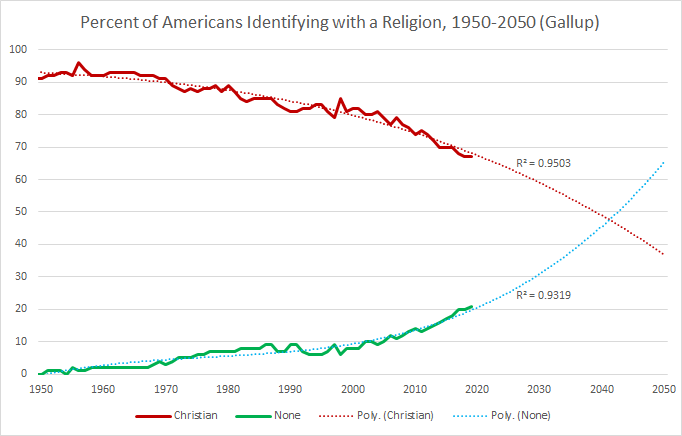
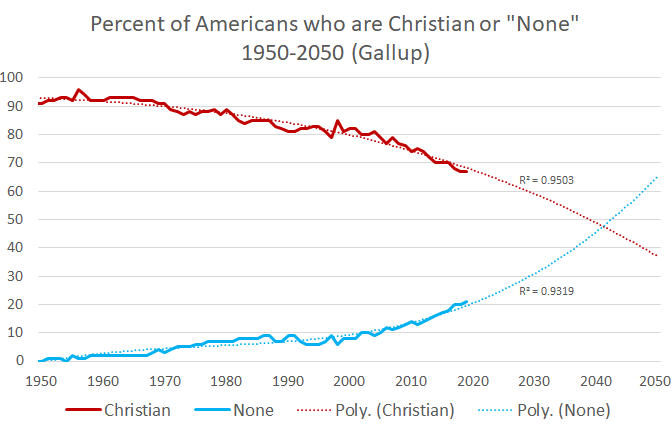
Fixed color in graph, hopefully fixed bug of changing note and section numbers

diff --git a/src/pages/con-leibniz.js b/src/pages/con-leibniz.js
@@ -12,6 +12,10 @@ var sections = 0;
 const ConLeibniz = () => (
   <Layout>
     <SEO title="Gottfried Leibniz's Contingency Argument" />
+    <script>
+        {notes = 0}
+        {sections = 0}
+    </script>    
     <p>Gottfried Leibniz's <Hyperlink to="https://rationalchristian.wordpress.com/2018/05/20/if-anything-exists-god-exists/">contingency argument is based on his so-called</Hyperlink> "<Hyperlink to="https://en.wikipedia.org/wiki/Principle_of_sufficient_reason">principle of sufficient reason</Hyperlink>" (PSR), which states that everything must have an explanation of its existence. According to the PSR, a thing's existence can be explained either by itself or by another thing. If it exists because of another thing, then its existence is <em>contingent</em> on that other thing, so it is said to <em>exist contingently</em>. Conversely, if its existence is self-explanatory, then it is said to <em>exist necessarily</em>. If it has no explanation at all — a possibility that the PSR denies — then its existence is a <em>brute fact.</em>
     <br /><br />
     Given the PSR, every contingent thing is explained by an ontologically prior thing. That prior thing exists either contingently, necessarily, or as a brute fact. This chain of things contingent on prior things is said to leave three respective possibilities. First, the chain extends backwards infinitely, so everything is contingent on a prior thing but there is no first thing. Second, something exists necessarily, so everything is indirectly contingent on it and it therefore explains everything. Finally, something exists as a brute fact. The last case is only a sufficient explanation if all contingent things are indirectly contingent on the brute fact(s). Anyone using the contingency argument rejects the first and third of those possibilities outright, concluding that the second must be correct.
@@ -112,6 +116,6 @@ const ConLeibniz = () => (
         I hesitate to endorse this objection for several other reasons. I would rather do away with metaphysical modality entirely, refusing to call anything metaphysically necessary or possible except to expose flaws in others' arguments. And even if one can use the language of metaphysical necessity, it may be an illicit move to say that existence exists necessarily, because perhaps the set of all existing things could simply be empty. But while this argument has its flaws, it would refute the PSR if one could show that existence exists necessarily and therefore requires no explanation.
     </Section>
   </Layout>
-)
+);
 
 export default ConLeibniz;

diff --git a/src/pages/trinity-modern.js b/src/pages/trinity-modern.js
@@ -11,6 +11,10 @@ var sections = 0;
 const TrinityModern = () => (
   <Layout>
     <SEO title="Modern Scientific Analogies for the Trinity" />
+    <script>
+        {notes = 0}
+        {sections = 0}
+    </script>    
     Four Christians to whom I brought my argument that Trinitarian doctrine is contradictory and therefore should not be believed all gave the same kind of reply: analogies with scientific theories. They claimed that the most successful physical theories contain apparent contradictions, but still should be believed. They gave three examples of apparent contradictions in physics: The simultaneous truth of quantum mechanics (QM) and the theory of relativity, <Hyperlink to="https://en.wikipedia.org/wiki/Resonance_(chemistry)">resonance structures</Hyperlink> as an example of quantum superposition, and wave-particle duality.
     <Note num={++notes}>
         Here are the specific objections that each of those Christians gave me, although I have kept them anonymous because I am quoting from private correspondence:
@@ -51,6 +55,6 @@ const TrinityModern = () => (
         <br /><br />
         Finally, consider wave-particle duality. This will also depend on one's interpretation of quantum mechanics. For example, the <Hyperlink to="https://en.wikipedia.org/wiki/Wave%E2%80%93particle_duality#2._Wave-only_view">many-worlds interpretation would probably claim that light is always only a wave</Hyperlink>, and <Hyperlink to="https://en.wikipedia.org/wiki/Wave%E2%80%93particle_duality#1._Both-particle-and-wave_view">Bohmian mechanics would claim that light has wave-like and particle-like properties</Hyperlink>. As usual, there are plenty of interpretations that resolve the apparent contradictions — and the only reason the competing interpretations are still around is a lack of empirical predictions to test which one is correct. Since the apparent contradictions can be resolved, the only question is how to resolve them rightly. Also, the aforementioned Christians claimed that one can know <em>that</em> God is even if one cannot know <em>what</em> God is, and one of them supported this by making an analogy with light. But the analogy with light backfires. One can know <em>that</em> light is only because light is observable, unlike God.
     </Section>
-</Layout>)
+</Layout>);
 
 export default TrinityModern;

diff --git a/src/pages/moral.js b/src/pages/moral.js
@@ -12,6 +12,10 @@ var sections = 0;
 const MoralArg = () => (
   <Layout>
     <SEO title="William Lane Craig's Moral Argument" />
+    <script>
+        {notes = 0}
+        {sections = 0}
+    </script>    
     In his debate with Lawrence Krauss, William Lane Craig phrased <Hyperlink to="https://www.reasonablefaith.org/media/debates/the-craig-krauss-debate-at-north-carolina-state-university#presentation-2">his moral argument for God's existence</Hyperlink> as follows:
     <br /><br /><blockquote>
         "On a naturalistic view moral values are just the byproduct of biological evolution and social conditioning … on the atheistic view there doesn’t seem to be anything about this that makes this morality objectively binding and true. But the problem is that objective moral values and duties plausibly do exist … There’s no more reason to deny the objective reality of moral values than the objective reality of the physical world … But in that case, the probability of God’s existence is 1.0! We can formulate this reasoning as follows: 1. If God did not exist, objective moral values and duties would not exist. 2. Objective moral values and duties do exist. From which it follows logically and inescapably that 3. Therefore, God exists."
@@ -53,4 +57,5 @@ const MoralArg = () => (
 		Notice that Dr. Craig implicitly recognizes that the objectivity of morality is based on essentialism instead of theism. He is able to successfully argue that God is objectively good only by presupposing that God has a universal essence, and not by appealing to some kind of distinction between theism and atheism. By admitting that actions are not good solely because God commands them, Craig also recognizes the possibility that Christianity is true and morality is subjective. If God exists but does not have the essential property of being good, as a Christian anti-essentialist must believe, then God exists but goodness is still subjective.
     </Section>
   </Layout>);
+  
 export default MoralArg;

diff --git a/src/pages/cos-schroeder.js b/src/pages/cos-schroeder.js
@@ -14,6 +14,10 @@ var sections = 0;
 const CosSchoeder = () => (
   <Layout>
     <SEO title="Gerald Schroeder's Cosmological Argument" />
+    <script>
+        {notes = 0}
+        {sections = 0}
+    </script>    
 		<p>A physicist named Gerald Schroeder apparently believed that he could provide <Hyperlink to="http://youtube.com/watch?v=eQVm8RokoBA">"scientific proof" that God exists</Hyperlink> — despite that science can never "prove" anything with certainty like mathematics or logic can, and can merely "show" or "demonstrate" — in five minutes, according to his Youtube video on the subject. Unsurprisingly, his five-minute "proof" is full of holes. One cannot infer that God exists merely because the laws of nature exist, contrary to what Schroeder claimed.</p>
     <Section num={++sections} summary="Since time is part of the universe, and nothing can predate time, the laws of nature do not predate the universe as Schroeder claimed.">
       Schroeder claimed (at 2:25) that "the Bible got it right" because "There was a beginning to the universe." In this respect he is correct: the Bible did get at least one thing right in a literal reading of it. However, he neglected to mention that the Bible incorrectly described almost every other detail about the beginning of the universe: namely, how long ago it happened, how long it took for the various kinds of life to form, through what processes the various kinds of life formed, whether or not there was a "firmament" above the Earth, whether stars existed before the Earth did, et cetera. It is commonly accepted based on the overwhelming majority of evidence that a literal reading of the Bible gives inaccurate answers to these questions.

diff --git a/src/pages/cos-leibniz.js b/src/pages/cos-leibniz.js
@@ -12,6 +12,10 @@ var sections = 0;
 const CosLeibniz = () => (
   <Layout>
     <SEO title="Gottfried Leibniz's Cosmological Argument" />
+    <script>
+        {notes = 0}
+        {sections = 0}
+    </script>    
     <p>According to Gottfried Leibniz, "<Hyperlink to="https://reasonabletheology.org/why-is-there-something-rather-than-nothing-leibniz-contingency-argument/">the first question that should rightly be asked is 'Why is there something instead of nothing?'</Hyperlink>" It is a simple question to which Leibniz considered God the only possible answer. But asking why there is something rather than nothing is insufficient to show that God exists.</p>
     <Section num={++sections} summary="Why is there something rather than nothing? Well, why not? There is no reason to expect nothing rather than something, and maybe the universe has no explanation. Plus, if probability is based on observations, 1 out of 1 observed universes exists.">
         A much simpler answer to Leibniz's question is given without invoking God in the first three words of the Stanford Encyclopedia of Philosophy's discussion of Leibniz's question: "<Hyperlink to="https://plato.stanford.edu/entries/nothingness/#WhyTheSomRatThaNot">Well, why not?</Hyperlink>"
@@ -80,6 +84,6 @@ const CosLeibniz = () => (
         However, I am unwilling to endorse that argument because it requires accepting "metaphysical possibility" as a legitimate category, separate from logical or physical possibility. As explained earlier, I do not. 
     </Section>			
   </Layout>
-)
+);
 
 export default CosLeibniz;

diff --git a/src/pages/demographics-usa-explained.js b/src/pages/demographics-usa-explained.js
@@ -17,6 +17,10 @@ var sections = 0;
 const ExplainingDemographicsUSA = () => (
   <Layout>
     <SEO title="Explaining American Religious Demographic Trends" />
+    <script>
+        {notes = 0}
+        {sections = 0}
+    </script>    
     The rise of American nonreligion is typically explained in the literature by one of two overarching theories: the <Hyperlink to="http://hdl.handle.net/11299/206620">"backlash theory" and the "drift theory."</Hyperlink><Note num={++notes}>Evan Stewart (2019), "<Hyperlink to="http://hdl.handle.net/11299/206620">No Church in the Wild: The Politics of American Nonreligion</Hyperlink>," pp. 2-3 (<Hyperlink to="https://conservancy.umn.edu/bitstream/handle/11299/206620/Stewart_umn_0130E_20445.pdf?sequence=1">PDF</Hyperlink>).
     </Note> Each of these partly explains the rise in American nonreligion, but another often-overlooked factor explains just as much: digital-age access to information. 
     <Section num={++sections} summary="The decline of American religion is caused largely by better access to information. The decline accelerated in the past few decades because Americans can access vastly more information now through the Internet.">
@@ -138,6 +142,6 @@ const ExplainingDemographicsUSA = () => (
         </blockquote>
         The less that Americans are taught to follow their religion as children, before the development of their critical thinking skills, the fewer of them ever come to believe it.
     </Section>
-</Layout>)
+</Layout>);
 
 export default ExplainingDemographicsUSA;

diff --git a/src/pages/possible-metaphys.js b/src/pages/possible-metaphys.js
@@ -14,6 +14,10 @@ var sections = 0;
 const MetaphysicalModality = () => (
   <Layout>
     <SEO title="Metaphysical Modality" />
+    <script>
+        {notes = 0}
+        {sections = 0}
+    </script>    
     In philosophy, "modal claims" are "<Hyperlink to="https://plato.stanford.edu/entries/modality-epistemology/">claims about what is necessary, possible, contingent, essential, and accidental."</Hyperlink><Note num={++notes}>By "modality" here I mean "<Hyperlink to="https://en.wikipedia.org/wiki/Alethic_modality">alethic modality</Hyperlink>," also known as "<Hyperlink to="https://en.wikipedia.org/wiki/Subjunctive_possibility">subjunctive possibility</Hyperlink>." There are other kinds of modality, including the <Hyperlink to="https://en.wikipedia.org/wiki/Subjunctive_possibility#Deontic_possibility">deontic ethical modality</Hyperlink> of obligatory (ethically necessary) versus permissible (ethically possible) actions. For this discussion, I am ignoring these other modalities.</Note> Philosophers often define three kinds<Note num={++notes}>For the moment I am ignoring a fourth kind, <Hyperlink to="https://en.wikipedia.org/wiki/Subjunctive_possibility#Types_of_subjunctive_possibility">"temporal" or "historical" modality</Hyperlink>.</Note> of modality: logical, metaphysical, and physical. "On the standard model" of modality, "the following nesting relation holds:" 
     <br />
     <img src = "https://plato.stanford.edu/entries/modality-epistemology/fig1.png" style={{objectFit: "scale-down"}} />

diff --git a/src/pages/ont-anselm.js b/src/pages/ont-anselm.js
@@ -13,6 +13,10 @@ var sections = 0;
 const AnselmOnt = () => (
   <Layout>
     <SEO title="Anselm's Ontological Argument" />
+    <script>
+        {notes = 0}
+        {sections = 0}
+    </script>    
     <p>Anselm's ontological argument (AOA) for God's existence was first described in Anselm's <em><Hyperlink to="http://jasper-hopkins.info/proslogion.pdf">Proslogion</Hyperlink></em>:
     <br /><br /><blockquote>
         [I]s there, then, no such nature [as God], for the Fool has said in his heart that God does not exist? But surely when this very same Fool hears my words "something than which nothing greater can be thought," he understands what he hears ... So even the Fool is convinced that something than which nothing greater can be thought is at least in his understanding; for when he hears of this [being], he understands [what he hears], and whatever is understood is in the understanding. But surely that than which a greater cannot be thought cannot be only in the understanding. For if it were only in the understanding, it could be thought to exist also in reality—something which is greater [than existing only in the understanding]. Therefore, if that than which a greater cannot be thought were only in the understanding, then that than which a greater cannot be thought would be that than which a greater can be thought! But surely this [conclusion] is impossible. Hence, without doubt, something than which a greater cannot be thought exists both in the understanding and in reality.

diff --git a/src/pages/time-relative.js b/src/pages/time-relative.js
@@ -4,10 +4,9 @@ import { Link } from "gatsby"
 // Components
 import Layout from "../components/layout"
 import Hyperlink from "../components/Hyperlink"
-import Image from "../components/image"
 import Note from "../components/Note"
 import SEO from "../components/seo"
-import Section from "../components/Section"
+import Section from "../components/Section" 
 
 // Images
 import theoriesOfTime from "../images/theories-of-time.png"
@@ -17,6 +16,10 @@ var sections = 0;
 const RelativeTime = () => (
   <Layout>
     <SEO title="Relative Time" />
+    <script>
+        {notes = 0}
+        {sections = 0}
+    </script>    
     <Section num={++sections} summary="The many different theories of time disagree about whether the passage or 'flow' of a 'present moment' forward through time is real. Dynamic 'A-theories' call it objectively real, while static 'B-theories' call it a subjective illusion.">	
         Dr. William Lane Craig's "kalām cosmological argument" (KCA) is based on the idea that some things "begin to exist." To define what this means, Craig invoked the concept of "tensed facts," which <Hyperlink to="https://www.reasonablefaith.org/question-answer/P20/beginning-to-exist">presupposes a controversial metaphysical theory of time</Hyperlink>:
         <br /><br />

diff --git a/src/pages/index.js b/src/pages/index.js
@@ -8,7 +8,6 @@ import Image from "../components/image"
 import Note from "../components/Note"
 import SEO from "../components/seo"
 import Section from "../components/Section"
-import Sidebar from "../components/Sidebar"
 import DropdownMenu from "../components/DropdownMenu"
 import MenuButton from "../components/MenuButton"
 import MenuButtonRow from "../components/MenuButtonRow"
@@ -19,6 +18,10 @@ function render() {
 	return (
 		<Layout>
 		<SEO title="The Fallacies of Faith: Main Page" />
+		<script>
+			{notes = 0}
+			{sections = 0}
+		</script>    
 		<blockquote><em>"All we can do is to follow the truth and not fight against it."</em>
 		<br />—2 Corinthians 13:8 (CEV)</blockquote>
 		This website is a work-in-progress counter-apologetics resource. Its intent is to provide a factually accurate, logically coherent, and intellectually honest set of arguments that fundamental Christian doctrine as defined in the <Hyperlink to="https://www.crcna.org/welcome/beliefs/creeds">traditional</Hyperlink> <Hyperlink to="https://els.org/beliefs/the-three-ecumenical-creeds-2/">Christian creeds</Hyperlink> should not be believed. In this document, I have sought to address every pro-Christian argument that I have ever encountered.

diff --git a/src/pages/trinity-ancient.js b/src/pages/trinity-ancient.js
@@ -11,6 +11,10 @@ var sections = 0;
 const TrinityAncient = () => (
   <Layout>
     <SEO title="Ancient Trinitarian Theology" />
+    <script>
+        {notes = 0}
+        {sections = 0}
+    </script>    
         <Section num={++sections} summary="Christian doctrine (per the Athanasian Creed) says that the Father is God, the Son is God, the Holy Spirit is God. But it also says that these are three distinct persons, so the Son is not the Holy Spirit. Without a clear alternative interpretation, this doctrine is self-contradictory.">
             Fundamental Christian doctrine has been formalized in a set of creeds. Since <Hyperlink to="www.crcna.org/welcome/beliefs/creeds/athanasian-creed">the Athanasian Creed was the first to establish the doctrine of the Trinity</Hyperlink>, I will list all relevant statements from the Athanasian Creed about the Trinity:
             <br /><br /><ul>

diff --git a/src/pages/con-bertuzzi.js b/src/pages/con-bertuzzi.js
@@ -12,6 +12,10 @@ var sections = 0;
 const ConBertuzzi = () => (
   <Layout>
     <SEO title="Cameron Bertuzzi's Contingency Argument" />
+    <script>
+        {notes = 0}
+        {sections = 0}
+    </script>    
 		<p>Cameron Bertuzzi of "Capturing Christianity" described an "<Hyperlink to="http://capturingchristianity.com/updated-contingency-argument/">updated contingency argument</Hyperlink>" using modal logic which attempted to avoid many of the problems with Leibniz's. Note that "L" is defined as "the set of all concrete objects in the actual world," which will become crucial when deconstructing Bertuzzi's argument. Anyway, he presented his argument as the following syllogism:</p>
 		<blockquote><ol>
             <li>"Necessarily, every set of contingent concrete objects possibly has an explanation for why it, rather than some other set of objects, exists.</li>
